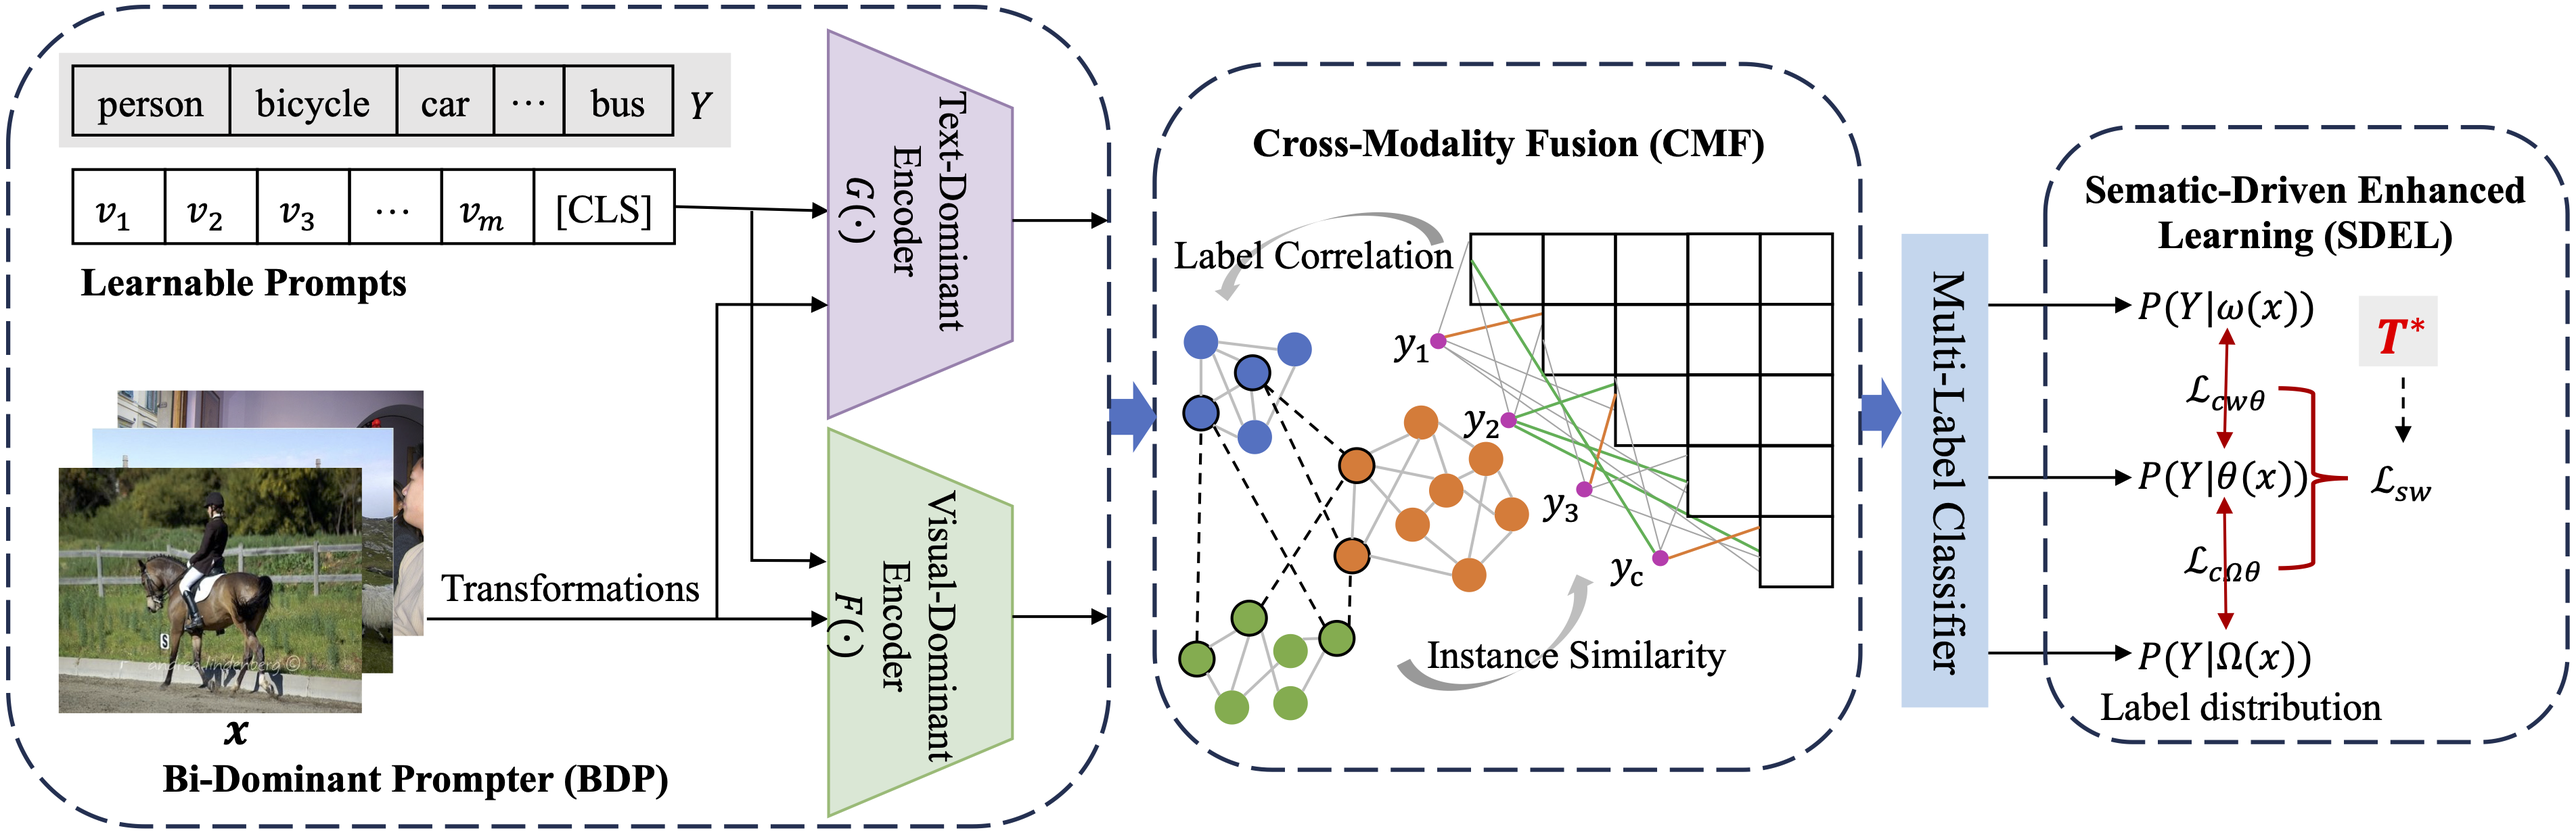
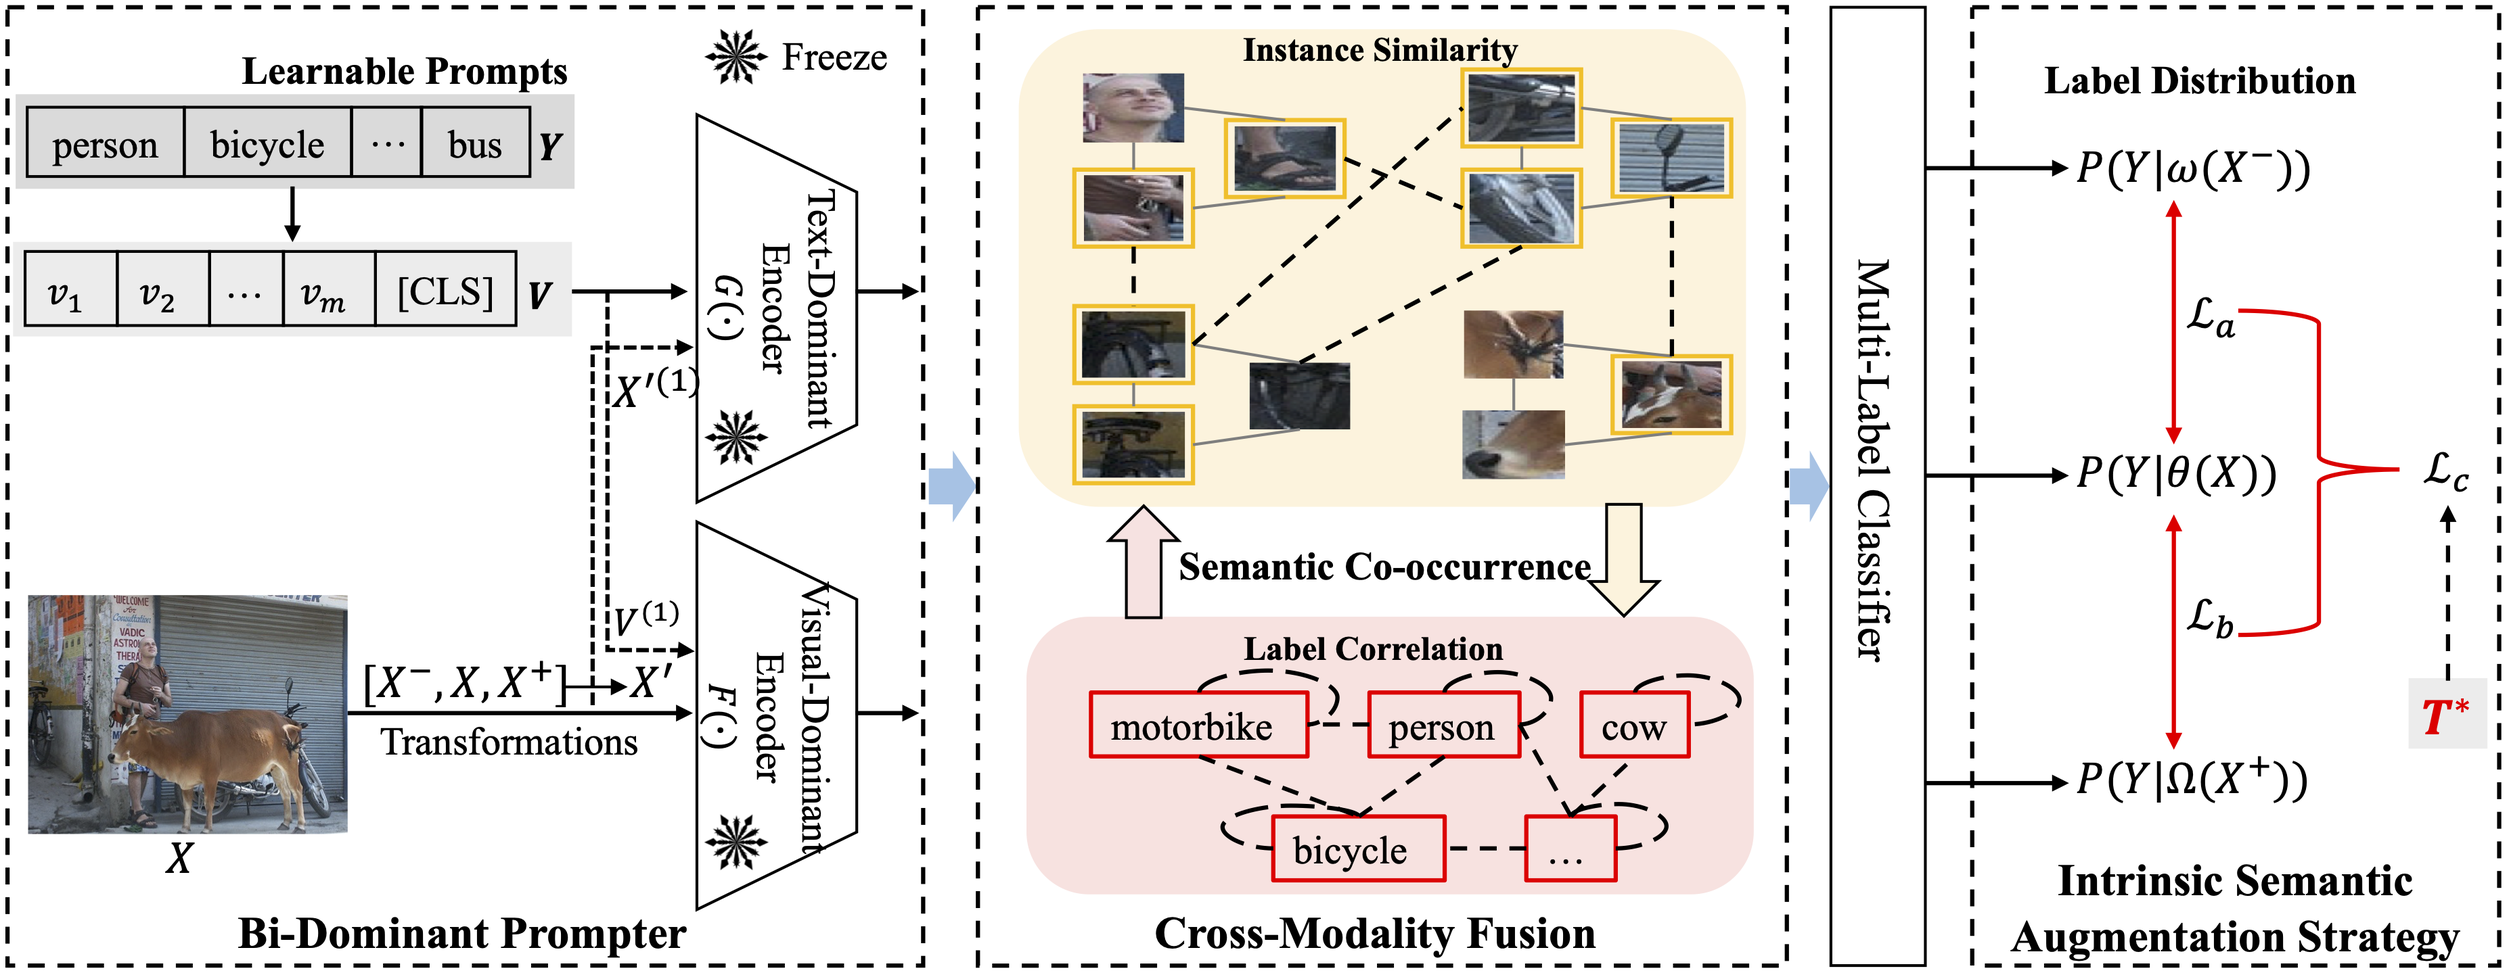
Update

diff --git a/README.md b/README.md
@@ -1,13 +1,13 @@
-# Exploring Semantically-Driven Learning for Multi-Label Image Recognition in the Context of Partial Annotations
+# Exploring Partial Multi-Label Learning via Integrating Semantic Co-occurrence Knowledge
 
 Official PyTorch Implementation of **SCINet**, from the following paper:
 
-> Exploring Semantically-Driven Learning for Multi-Label Image Recognition in the Context of Partial Annotations. ACM MM 2024.
+> Exploring Partial Multi-Label Learning via Integrating Semantic Co-occurrence Knowledge. IEEE Transactions on Multimedia 2025. (Under Review)
 
 
 **Abstract**
 
-In multi-label recognition (MLR) tasks, images with comprehensive annotations are time-consuming and labor-intensive, especially when dealing with a large number of labels. An extension to this paradigm, MLR with partial labels, has evolved to further address this challenge. Recent efforts have focused on leveraging the semantic relationships between labels through the learning of visual and language models, thereby compensating for the limitations of textual information. However, most studies tend to overlook the potential value exchange between different instances. In this work, we advocate for not only focusing on knowledge transfer between labels but also emphasizing information exchange between instances, to mitigate the issue of incomplete supervision information in MLR tasks due to partially labeled data. We introduce a novel and efficient framework named Semantic Co-occurrence Insight Network (SCINet). To enhance the model's understanding of context, improve feature extraction efficiency, and increase classification accuracy, we further integrate a cross-modal module specifically designed for processing and fusing textual and visual features of the input data. Additionally, through the Semantic-Driven Enhanced Learning (SDEL) method, we ensure that our model learns both the features of data and its semantic meanings. Our model demonstrates outstanding performance across several widely used benchmark datasets. Our code will be made publicly available soon.
+Partial multi-label learning aims to extract knowledge from incompletely annotated data, which includes known correct labels, known incorrect labels, and unknown labels. The core challenge lies in accurately identifying the ambiguous relationships between labels and instances. In this paper, we emphasize that matching co-occurrence patterns between labels and instances is key to addressing this challenge. To this end, we propose Semantic Co-occurrence Insight Network (SCINet), a novel and effective framework for partial multi-label learning. Specifically, SCINet introduces a bi-dominant prompter module, which leverages an off-the-shelf multimodal model to capture text-image correlations and enhance semantic alignment. To reinforce instance-label interdependencies, we develop a cross-modality fusion module that jointly models inter-label correlations, inter-instance relationships, and co-occurrence patterns across instance-label assignments. Moreover, we propose an intrinsic semantic augmentation strategy that enhances the model’s understanding of intrinsic data semantics by applying diverse image transformations, thereby fostering a synergistic relationship between label confidence and sample difficulty. Extensive experiments on four widely-used benchmark datasets demonstrate that SCINet surpasses state-of-the-art methods.
 
 <p align="center">
  <table class="tg">
